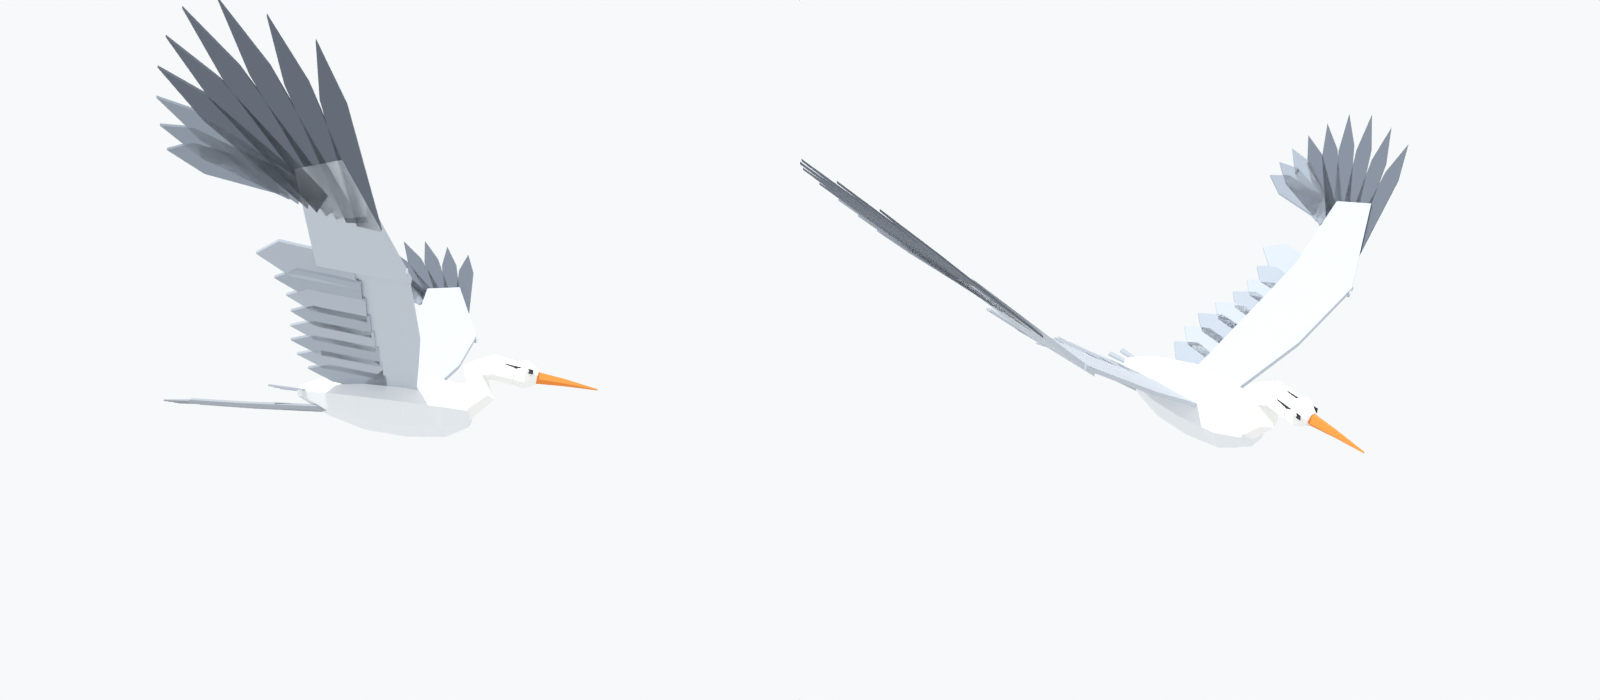
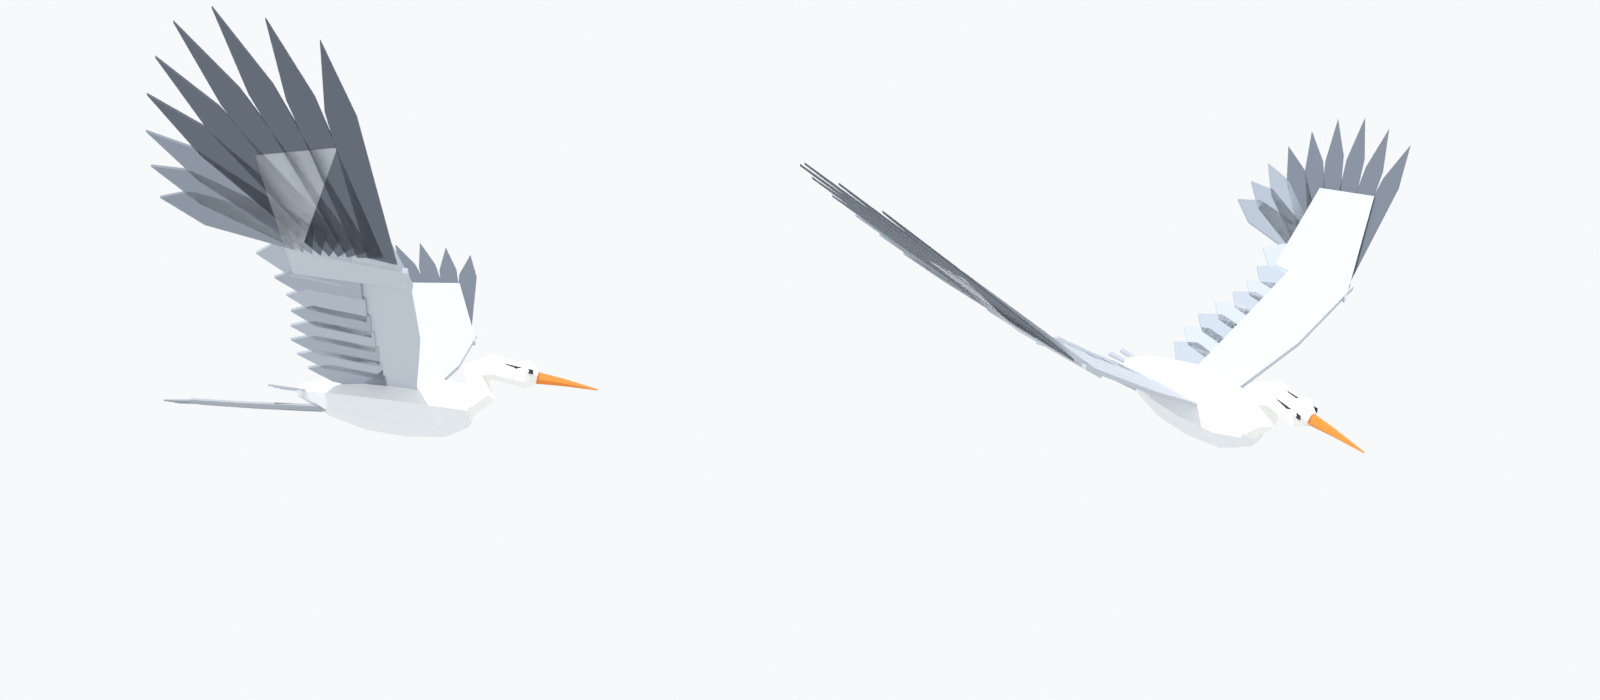
Flying heron: dark primaries rooted under the coverts, no gap

diff --git a/blender/assets/heron_flying.py b/blender/assets/heron_flying.py
@@ -41,13 +41,13 @@ def build():
         for k in range(8):                                                     # secondaries along the trailing edge, overlapping
             o0 = 0.02 + k * 0.055
             feather('secondary', w, sy, (0.08, o0), (0.3 + 0.02 * math.sin(k), o0 + 0.03), 0.075, 0xB1B9C3 if k % 2 else 0xA4ADB8)
-        hand = [(-0.05, 0.4), (0.0, 0.62), (0.12, 0.6), (0.17, 0.42)]           # the hand coverts over the primaries' bases
+        hand = [(-0.05, 0.38), (0.0, 0.64), (0.2, 0.62), (0.24, 0.4)]           # the hand coverts over the primaries' bases
         blade('hand', [(lambda X, Z: (X, sy * o, Z))(*lift(x, o)) for (x, o) in hand], WING, w, t=0.014, up=True)
         for k in range(9):                                                     # primaries: a wide fan of long tapered fingers
-            a_ = math.radians(-8 + k * 11); o0 = 0.5 + 0.01 * k; x0 = 0.0 + k * 0.022
-            L = 0.36 - abs(k - 2.5) * 0.022
+            a_ = math.radians(-8 + k * 11); o0 = 0.44 + 0.005 * k; x0 = 0.0 + k * 0.025   # rooted under the hand coverts
+            L = 0.42 - abs(k - 2.5) * 0.022
             tip = (x0 + math.sin(a_) * L, o0 + math.cos(a_) * L)
-            feather('primary', w, sy, (x0, o0), tip, 0.055, TIP if k < 6 else 0x8D96A2, t=0.005)
+            feather('primary', w, sy, (x0, o0), tip, 0.065, TIP if k < 6 else 0x8D96A2, t=0.005)
     for k in range(3):
         blade('tail', [(0.27, (k - 1) * 0.03, 0.0), (0.38, (k - 1) * 0.045, 0.0), (0.37, (k - 1) * 0.045 + 0.02, 0.0), (0.27, (k - 1) * 0.03 + 0.012, 0.0)], 0xA9B1BB, r, up=True)
     return r
